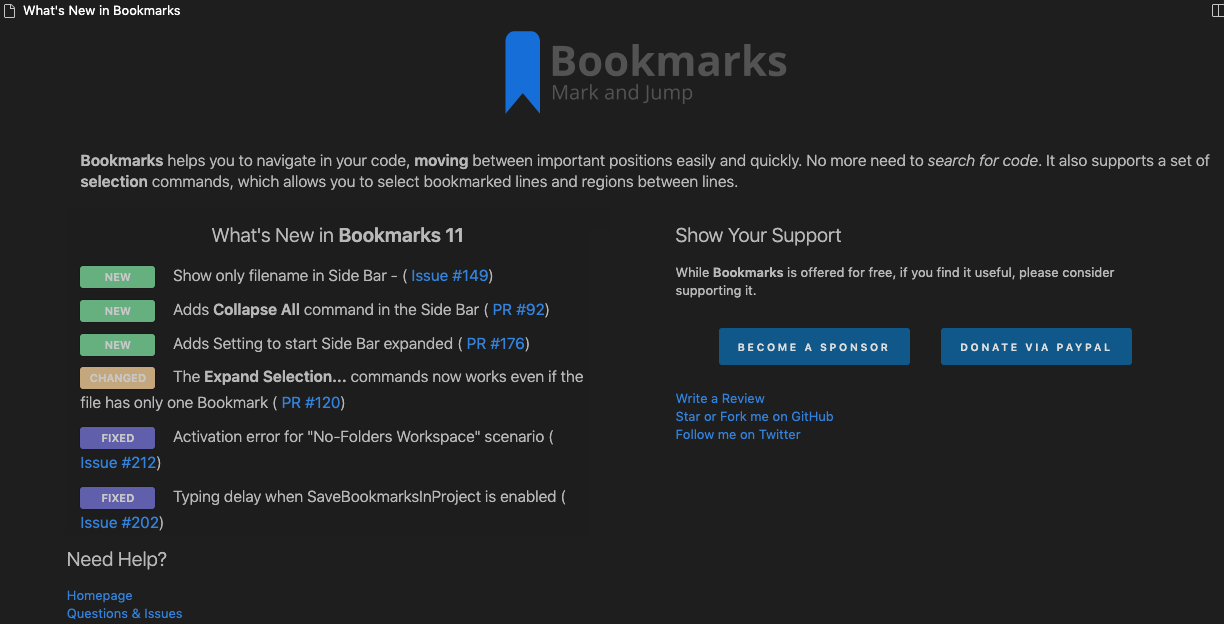
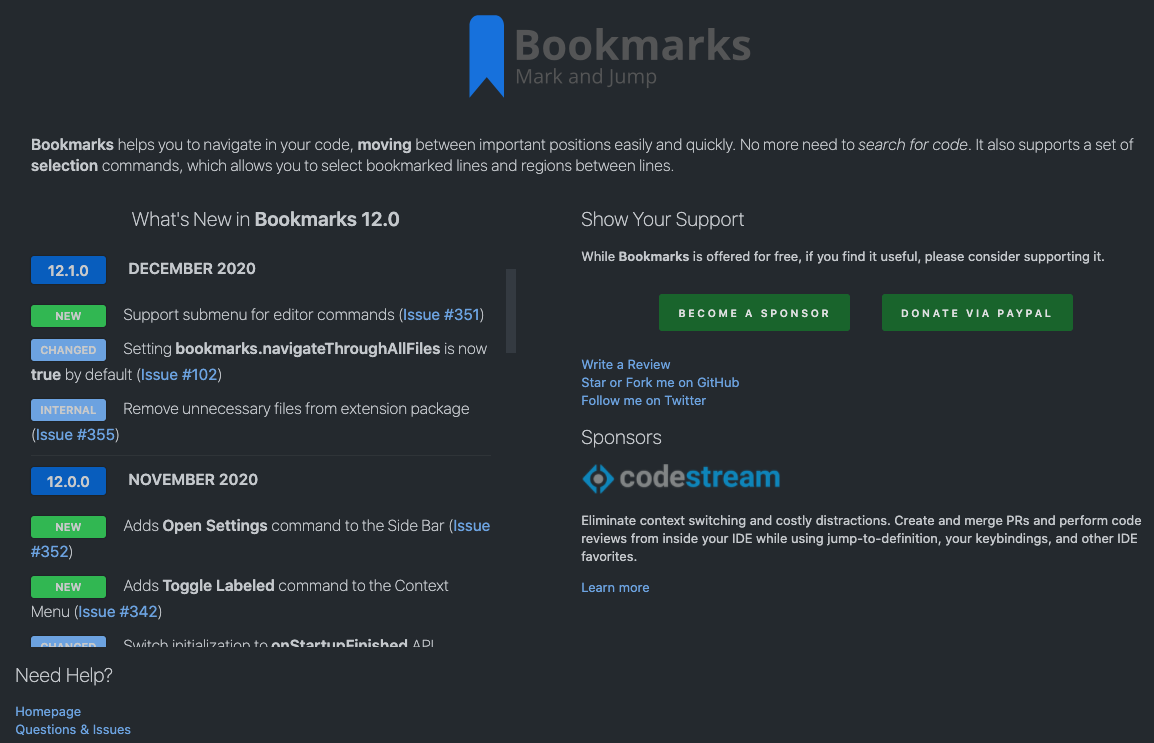
Update docs for #17

diff --git a/README.md b/README.md
@@ -9,7 +9,14 @@ This submodule is used to display a **What's New** page on my VS Code extensions
 ```ts
 
 // provide the data
-import { ChangeLogItem, ChangeLogKind, ContentProvider, SocialMediaProvider, Header, Image } from "../../vscode-whats-new/src/ContentProvider";
+import { ChangeLogItem, 
+         ChangeLogKind, 
+         ContentProvider, 
+         SocialMediaProvider, 
+         SponsorProvider, 
+         Header, 
+         Image
+} from "../../vscode-whats-new/src/ContentProvider";
 
 export class BookmarksContentProvider implements ContentProvider {
 
@@ -24,15 +31,32 @@ export class BookmarksContentProvider implements ContentProvider {
 
     provideChangeLog(): ChangeLogItem[] {
         let changeLog: ChangeLogItem[] = [];
-        changeLog.push({kind: ChangeLogKind.NEW, message: `Show only filename in Side Bar - (<a title=\"Open Issue #149\" 
-            href=\"https://github.com/alefragnani/vscode-bookmarks/issues/149\">
-            Issue #149</a>)`});
-        changeLog.push({kind: ChangeLogKind.CHANGED, message: `The <b>Expand Selection...</b> commands now works even if the file has only one Bookmark (<a title=\"Open Issue #120\" 
-            href=\"https://github.com/alefragnani/vscode-bookmarks/issues/120\">
-            PR #120</a>)`});
-        changeLog.push({kind: ChangeLogKind.FIXED, message: `Activation error for "No-Folders Workspace" scenario (<a title=\"Open Issue #212\" 
-            href=\"https://github.com/alefragnani/vscode-bookmarks/issues/212\">
-            Issue #212</a>)`});
+        changeLog.push({ kind: ChangeLogKind.VERSION, detail: { releaseNumber: "12.1.0", releaseDate: "December 2020" } });
+        changeLog.push({
+            kind: ChangeLogKind.NEW,
+            detail: {
+                message: "Support submenu for editor commands",
+                id: 351,
+                kind: IssueKind.Issue
+            }
+        });
+        changeLog.push({
+            kind: ChangeLogKind.CHANGED,
+            detail: {
+                message: "Setting <b>bookmarks.navigateThroughAllFiles</b> is now <b>true</b> by default",
+                id: 102,
+                kind: IssueKind.Issue
+            }
+        });
+        changeLog.push({
+            kind: ChangeLogKind.INTERNAL,
+            detail: {
+                message: "Remove unnecessary files from extension package",
+                id: 355,
+                kind: IssueKind.Issue
+            }
+        });
+    }
 }
 
 export class BookmarksSocialMediaProvider implements SocialMediaProvider {
@@ -44,11 +68,35 @@ export class BookmarksSocialMediaProvider implements SocialMediaProvider {
     }
 }
 
-// register the provider
+export class BookmarksSponsorProvider implements SponsorProvider {
+    public provideSponsors(): Sponsor[] {
+        const sponsors: Sponsor[] = [];
+        const sponsorCodeStream: Sponsor = <Sponsor>{
+            title: "Learn more about Codestream",
+            link: "https://sponsorlink.codestream.com/?utm_source=vscmarket&utm_campaign=bookmarks&utm_medium=banner",
+            image: {
+                light: "https://alt-images.codestream.com/codestream_logo_bookmarks.png",
+                dark: "https://alt-images.codestream.com/codestream_logo_bookmarks.png"
+            },
+            width: 52,
+            message: `<p>Eliminate context switching and costly distractions. 
+                Create and merge PRs and perform code reviews from inside your 
+                IDE while using jump-to-definition, your keybindings, and other IDE favorites.</p>`,
+            extra:
+                `<a title="Learn more about CodeStream" href="https://sponsorlink.codestream.com/?utm_source=vscmarket&utm_campaign=bookmarks&utm_medium=banner">
+                Learn more</a>`
+        };
+        sponsors.push(sponsorCodeStream);
+        return sponsors;
+    }
+}
+
+// register the providers
 const provider = new BookmarksContentProvider();
 const viewer = new WhatsNewManager(context)
     .registerContentProvider("alefragnani", "bookmarks", provider)
-    .registerSocialMediaProvider(new BookmarksSocialMediaProvider());
+    .registerSocialMediaProvider(new BookmarksSocialMediaProvider())
+    .registerSponsorProvider(new BookmarksSponsorProvider());
 
 // show the page (if necessary)
 viewer.showPageInActivation();
